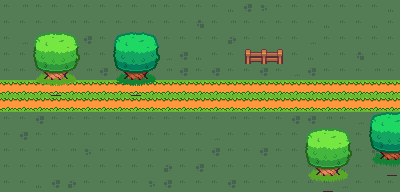
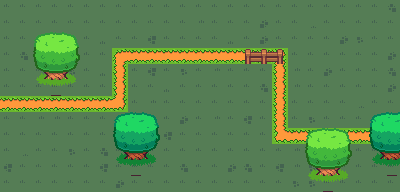
consertando a estrada

diff --git a/generate.py b/generate.py
@@ -10,10 +10,6 @@ TILE_SIZE = 16
 
 
 # ============================================================
-# MAPS
-# ============================================================
-
-# ============================================================
 # MAP CONFIG
 # ============================================================
 
@@ -24,6 +20,7 @@ MAP_ROWS = 12
 # ============================================================
 # CREATE LAYERS
 # ============================================================
+
 GRASS_TILES = [
     "g1",
     "g2",
@@ -36,15 +33,16 @@ GRASS_TILES = [
 ]
 
 GRASS_WEIGHTS = [
-    5,  # g1
-    5,  # g2
+    5,   # g1
+    5,   # g2
     75,  # g3
-    5,  # g4
+    5,   # g4
     2,   # g5
     3,   # g6
     3,   # g7
     2    # g8
 ]
+
 
 GROUND_MAP = [
     [
@@ -58,10 +56,12 @@ GROUND_MAP = [
     for _ in range(MAP_ROWS)
 ]
 
+
 OBJECT_MAP = [
     [None for _ in range(MAP_COLS)]
     for _ in range(MAP_ROWS)
 ]
+
 
 TOP_MAP = [
     [None for _ in range(MAP_COLS)]
@@ -70,12 +70,159 @@ TOP_MAP = [
 
 
 # ============================================================
-# TERRAIN
+# PATH SYSTEM
 # ============================================================
 
-for col in range(MAP_COLS):
-    GROUND_MAP[5][col] = "f2"
-    GROUND_MAP[6][col] = "f5"
+# f1 ╭
+# f2 ─
+# f3 ╮
+# f4 ╰
+# f5 ─
+# f6 ╯
+# f7 │
+
+PATH_TILES = {
+
+    # retas
+    frozenset(["left", "right"]): "f2",
+    frozenset(["up", "down"]): "f7",
+
+    # cantos
+    frozenset(["right", "down"]): "f1",
+    frozenset(["left", "down"]): "f3",
+
+    frozenset(["right", "up"]): "f4",
+    frozenset(["left", "up"]): "f6",
+}
+
+
+def direction(current, neighbor):
+
+    x, y = current
+    nx, ny = neighbor
+
+    if nx < x:
+        return "left"
+
+    if nx > x:
+        return "right"
+
+    if ny < y:
+        return "up"
+
+    if ny > y:
+        return "down"
+
+    raise ValueError("Current and neighbor cannot be the same position.")
+
+
+def expand_path(points):
+
+    path = []
+
+    for i in range(len(points) - 1):
+
+        x1, y1 = points[i]
+        x2, y2 = points[i + 1]
+
+        # trecho horizontal
+        if y1 == y2:
+
+            step = 1 if x2 > x1 else -1
+
+            for x in range(x1, x2, step):
+                path.append((x, y1))
+
+        # trecho vertical
+        elif x1 == x2:
+
+            step = 1 if y2 > y1 else -1
+
+            for y in range(y1, y2, step):
+                path.append((x1, y))
+
+        else:
+            raise ValueError(
+                "Path segments must be horizontal or vertical."
+            )
+
+    path.append(points[-1])
+
+    return path
+
+
+def draw_path(ground_map, points):
+
+    path = expand_path(points)
+
+    # desenha os tiles internos
+    for i in range(1, len(path) - 1):
+
+        previous = path[i - 1]
+        current = path[i]
+        next_point = path[i + 1]
+
+        connections = frozenset([
+            direction(current, previous),
+            direction(current, next_point)
+        ])
+
+        tile = PATH_TILES[connections]
+
+        x, y = current
+
+        ground_map[y][x] = tile
+
+    # ========================================================
+    # EXTREMIDADES
+    # ========================================================
+
+    # primeiro tile
+    first = path[0]
+    second = path[1]
+
+    first_direction = direction(first, second)
+
+    if first_direction in ("left", "right"):
+        first_tile = "f2"
+    else:
+        first_tile = "f7"
+
+    x, y = first
+    ground_map[y][x] = first_tile
+
+    # último tile
+    last = path[-1]
+    before_last = path[-2]
+
+    last_direction = direction(last, before_last)
+
+    if last_direction in ("left", "right"):
+        last_tile = "f5"
+    else:
+        last_tile = "f7"
+
+    x, y = last
+    ground_map[y][x] = last_tile
+
+
+# ============================================================
+# PATH
+# ============================================================
+
+PATH_POINTS = [
+    (0, 6),
+    (7, 6),
+    (7, 3),
+    (17, 3),
+    (17, 8),
+    (24, 8),
+]
+
+draw_path(
+    GROUND_MAP,
+    PATH_POINTS
+)
 
 
 # ============================================================
@@ -83,7 +230,7 @@ for col in range(MAP_COLS):
 # ============================================================
 
 OBJECT_MAP[2][2] = "t1"
-OBJECT_MAP[2][7] = "t2"
+OBJECT_MAP[7][7] = "t2"
 
 OBJECT_MAP[8][19] = "t1"
 OBJECT_MAP[7][23] = "t2"
@@ -125,8 +272,8 @@ def render_layer(canvas, layer):
 # MAP SIZE
 # ============================================================
 
-MAP_WIDTH = len(GROUND_MAP[0]) * TILE_SIZE
-MAP_HEIGHT = len(GROUND_MAP) * TILE_SIZE
+MAP_WIDTH = MAP_COLS * TILE_SIZE
+MAP_HEIGHT = MAP_ROWS * TILE_SIZE
 
 
 # ============================================================
@@ -139,10 +286,19 @@ background = Image.new(
     (0, 0, 0, 0)
 )
 
-render_layer(background, GROUND_MAP)
-render_layer(background, OBJECT_MAP)
+render_layer(
+    background,
+    GROUND_MAP
+)
 
-background.save("map.png")
+render_layer(
+    background,
+    OBJECT_MAP
+)
+
+background.save(
+    BASE_DIR / "map.png"
+)
 
 
 # ============================================================
@@ -150,12 +306,25 @@ background.save("map.png")
 # ============================================================
 
 sprites = [
-    Image.open(BASE_DIR / "assets/me/frame_01.png").convert("RGBA"),
-    Image.open(BASE_DIR / "assets/me/frame_02.png").convert("RGBA"),
-    Image.open(BASE_DIR / "assets/me/frame_03.png").convert("RGBA"),
+    Image.open(
+        BASE_DIR / "assets/me/frame_01.png"
+    ).convert("RGBA"),
+
+    Image.open(
+        BASE_DIR / "assets/me/frame_02.png"
+    ).convert("RGBA"),
+
+    Image.open(
+        BASE_DIR / "assets/me/frame_03.png"
+    ).convert("RGBA"),
 ]
 
-SPRITE_SIZE = (32, 32)
+
+SPRITE_SIZE = (
+    32,
+    32
+)
+
 
 sprites = [
     sprite.resize(
@@ -171,7 +340,7 @@ sprites = [
 # ============================================================
 
 player_col = 2
-player_row = 3
+player_row = 7
 
 player_x = player_col * TILE_SIZE
 player_y = player_row * TILE_SIZE
@@ -182,6 +351,7 @@ player_y = player_row * TILE_SIZE
 # ============================================================
 
 frames = []
+
 
 for sprite in sprites:
 
@@ -199,8 +369,11 @@ for sprite in sprites:
         sprite
     )
 
-    # coisas que precisam ficar na frente
-    render_layer(img, TOP_MAP)
+    # objetos que ficam na frente do personagem
+    render_layer(
+        img,
+        TOP_MAP
+    )
 
     frames.append(img)
 
@@ -210,12 +383,13 @@ for sprite in sprites:
 # ============================================================
 
 frames[0].save(
-    "world.gif",
+    BASE_DIR / "world.gif",
     save_all=True,
     append_images=frames[1:],
     duration=180,
     loop=0
 )
+
 
 print("map.png generated!")
 print("world.gif generated!")

diff --git a/assets_config.py b/assets_config.py
@@ -66,6 +66,14 @@ for row in range(6, 8):
         ))
         n += 1
 
+assets.add(Tile(
+    "f7",
+    grama,
+    col=1,
+    row=6,
+    width=3,
+    height=4
+))
 
 # =========================
 # TREES
